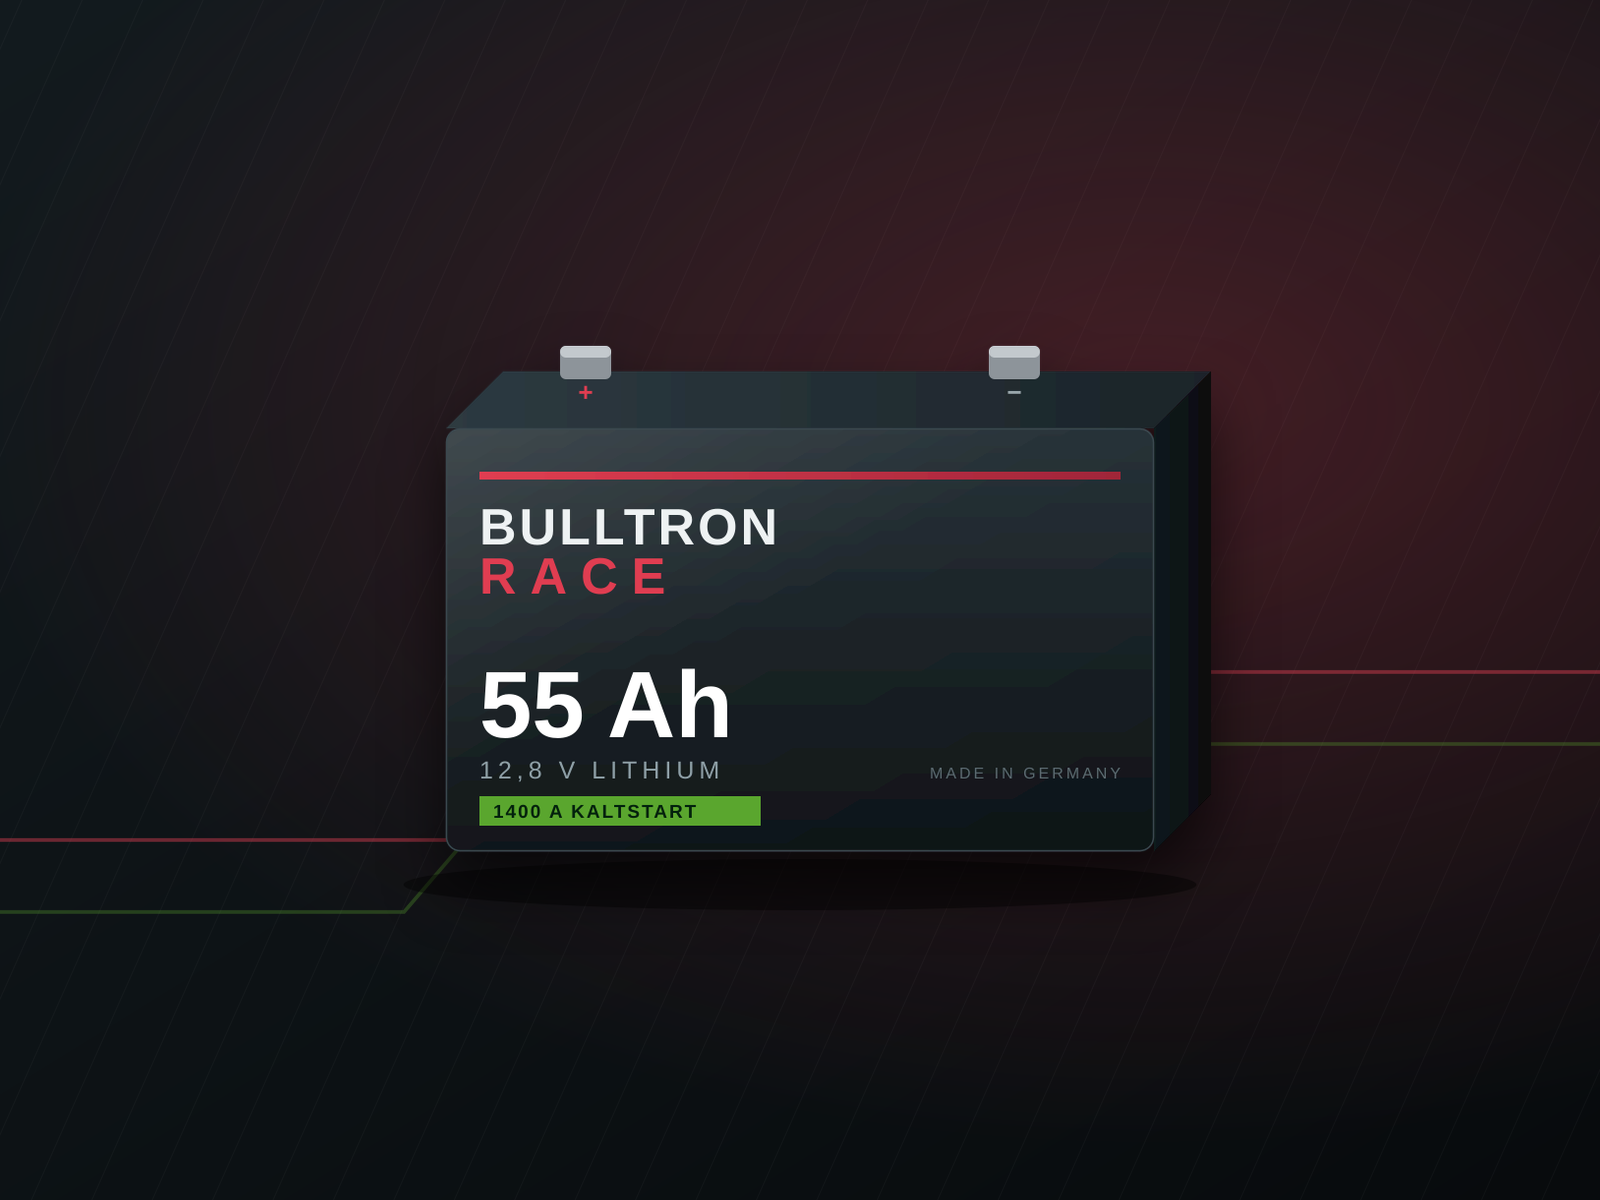
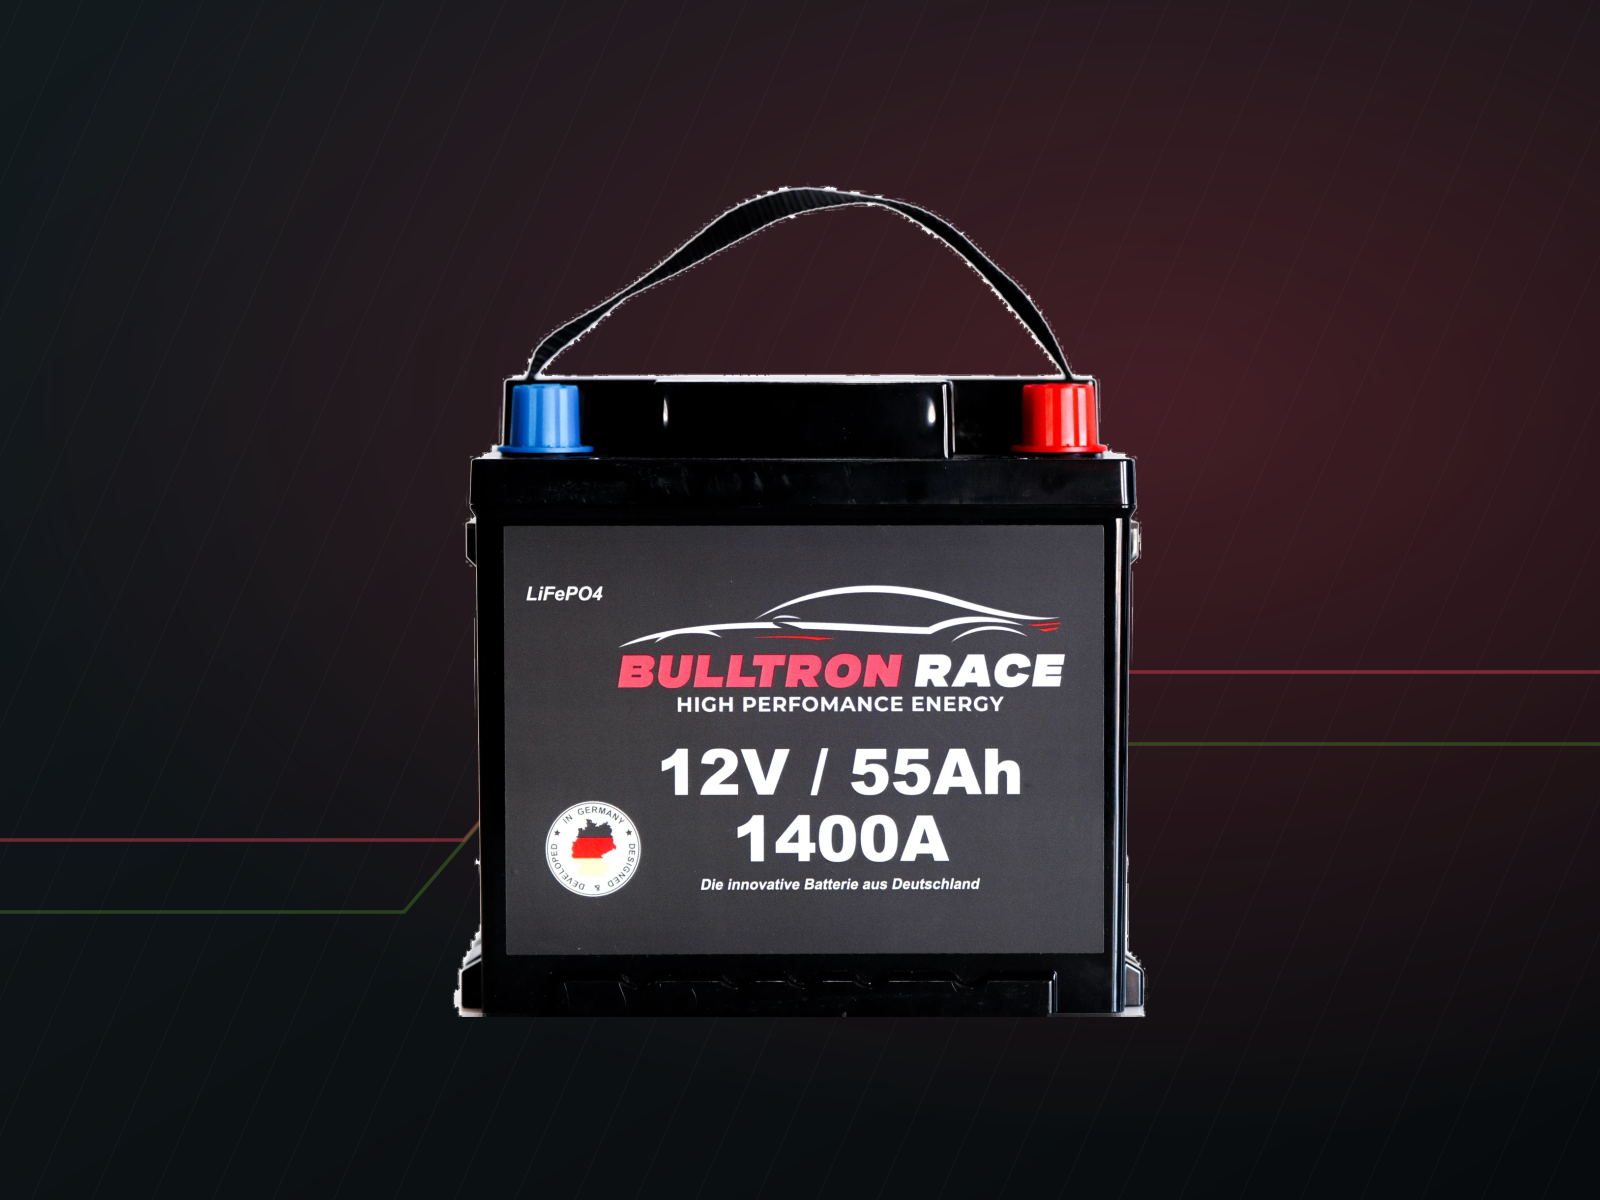
Echte Produktfotos fuer acht der neun Batterien
Die von Bulltron gelieferten Fotos ersetzen die erzeugten Platzhalter. Der
weisse Studiohintergrund ist freigestellt, damit die Batterien auf den
dunklen Kacheln stehen und nicht in einem weissen Kasten.

Zuordnung: Bei 4, 6 und 12 Ah steht die Kapazitaet auf dem Etikett. Die
L-Gehaeuse tragen alle dieselbe Beschriftung, dort wurde ueber das gemessene
Seitenverhaeltnis des Gehaeuses zugeordnet (L1 207 mm, L2 244 mm, L3 279 mm
Laenge bei gleicher Hoehe). Massstab waren die beiden 55-Ah-Fotos, weil es
davon genau zwei gibt; die drei 27-Ah-Fotos treffen damit auf unter zwei
Prozent genau. Fuer die 27 Ah im Metall-Gehaeuse liegt kein Foto vor, sie
behaelt ihr Platzhalterbild.

Dazu:
- Produktkacheln und Galerie passen jetzt jedes Seitenverhaeltnis ein. Die
  quadratischen Fotos liefen vorher 68 px unten aus der Kachel heraus
  (nachgemessen); das Bild liegt nun absolut in der Kachel.
- Die Lieferzeit "2-4 Werktage" ist raus. Sie stammte aus einem Vorgabewert
  am Feld, nicht von Bulltron, stand als Zusage auf jeder Produktseite und
  widersprach dem Status "Lieferzeit auf Anfrage" aller Produkte. Auch die
  Bestellbestaetigung nennt keine Lieferfrist mehr.
- src/scripts/produktfotos.ts weist die Fotos auf einer laufenden Instanz zu,
  src/scripts/lieferzeit-leeren.ts raeumt die Altwerte auf. Beide mehrfach
  ausfuehrbar und ohne erneuten Seed.

Claude-Session: https://claude.ai/code/session_01TmTbd2pJ9jbDW4w3PFvfLW

Changed region(s): [[0.2812, 0.1542, 0.7812, 0.8633]]

diff --git a/src/scripts/produktfotos.ts b/src/scripts/produktfotos.ts
@@ -1,0 +1,110 @@
+/**
+ * Weist den Produkten die echten Fotos zu — auf einer bereits laufenden
+ * Instanz, ohne den Seed erneut auszuführen.
+ *
+ * Hintergrund: Der Seed legt Produkte, Kategorien, Seiten und Medien neu an und
+ * löscht vorher alles. Auf einer Instanz mit gepflegten Inhalten darf er nicht
+ * noch einmal laufen. Dieses Skript lädt nur die Bilder hoch und hängt sie an
+ * die passenden Artikelnummern.
+ *
+ * Im Container ausführen:
+ *   node_modules/.bin/payload run src/scripts/produktfotos.ts
+ *
+ * Mehrfach ausführbar. Ein Produkt, dessen Bild jemand im Backend von Hand
+ * gesetzt hat, wird nicht angefasst — erkennbar daran, dass sein Dateiname
+ * nicht in der Liste unten steht. So überschreibt ein zweiter Lauf keine
+ * redaktionelle Arbeit.
+ */
+import path from 'path'
+import { fileURLToPath } from 'url'
+import fs from 'fs'
+import { getPayload } from 'payload'
+import config from '../payload.config'
+
+const assets = path.join(path.dirname(fileURLToPath(import.meta.url)), '..', 'seed', 'assets')
+
+/**
+ * Artikelnummer → Fotodatei.
+ *
+ * Die Zuordnung der Kunststoff-Gehäuse steht auf dem Etikett (4 Ah/500 A,
+ * 6 Ah/650 A, 12 Ah/1000 A). Bei den L-Gehäusen tragen alle Fotos dieselbe
+ * Beschriftung, dort wurde über das gemessene Seitenverhältnis des Gehäuses
+ * zugeordnet: L1 = 207 mm, L2 = 244 mm, L3 = 279 mm Länge bei gleicher Höhe.
+ * Die beiden 55-Ah-Fotos dienten als Maßstab, weil es davon genau zwei gibt;
+ * die drei 27-Ah-Fotos treffen damit auf unter zwei Prozent genau.
+ *
+ * Für die 27 Ah im Metall-Gehäuse (LI27B700-12-RM) liegt kein Foto vor — sie
+ * behält ihr Platzhalterbild.
+ */
+const fotos: Record<string, { datei: string; alt: string }> = {
+  'LI4B500-12-R1': { datei: 'race-4ah.webp', alt: 'Bulltron Race 4 Ah, 12,8 V LiFePO4 Starterbatterie im Kunststoff-Gehäuse' },
+  'LI6B650-12-R1': { datei: 'race-6ah.webp', alt: 'Bulltron Race 6 Ah, 12,8 V LiFePO4 Starterbatterie im Kunststoff-Gehäuse' },
+  'LI12B1000-12-R': { datei: 'race-12ah.webp', alt: 'Bulltron Race 12 Ah, 12,8 V LiFePO4 Starterbatterie im Kunststoff-Gehäuse' },
+  'LI27B700-12-RL1': { datei: 'race-27ah-l1.webp', alt: 'Bulltron Race 27 Ah, 12,8 V LiFePO4 Starterbatterie im L1-Gehäuse' },
+  'LI27B700-12-RL2': { datei: 'race-27ah-l2.webp', alt: 'Bulltron Race 27 Ah, 12,8 V LiFePO4 Starterbatterie im L2-Gehäuse' },
+  'LI27B700-12-RL3': { datei: 'race-27ah-l3.webp', alt: 'Bulltron Race 27 Ah, 12,8 V LiFePO4 Starterbatterie im L3-Gehäuse' },
+  'LI55B1400-12-RL1': { datei: 'race-55ah-l1.webp', alt: 'Bulltron Race 55 Ah, 12,8 V LiFePO4 Starterbatterie im L1-Gehäuse' },
+  'LI55B1400-12-RL2': { datei: 'race-55ah-l2.webp', alt: 'Bulltron Race 55 Ah, 12,8 V LiFePO4 Starterbatterie im L2-Gehäuse' },
+}
+
+/** Erzeugte Platzhalter, die ersetzt werden dürfen. */
+const platzhalter = /^batterie-/
+
+const payload = await getPayload({ config })
+
+let gesetzt = 0
+let uebersprungen = 0
+
+for (const [sku, { datei, alt }] of Object.entries(fotos)) {
+  const dateipfad = path.join(assets, datei)
+  if (!fs.existsSync(dateipfad)) {
+    payload.logger.error(`Datei fehlt: ${datei}`)
+    continue
+  }
+
+  const treffer = await payload.find({
+    collection: 'products',
+    where: { sku: { equals: sku } },
+    limit: 1,
+    depth: 1,
+    overrideAccess: true,
+  })
+  const produkt = treffer.docs[0] as Record<string, any> | undefined
+  if (!produkt) {
+    payload.logger.warn(`Kein Produkt mit Artikelnummer ${sku}`)
+    continue
+  }
+
+  const bisher = produkt.mainImage
+  const bisherigerName = bisher && typeof bisher === 'object' ? String(bisher.filename ?? '') : ''
+
+  if (bisherigerName === datei) {
+    uebersprungen++
+    continue
+  }
+  if (bisherigerName && !platzhalter.test(bisherigerName)) {
+    payload.logger.info(`${produkt.title}: eigenes Bild „${bisherigerName}" bleibt unangetastet`)
+    uebersprungen++
+    continue
+  }
+
+  const medium = await payload.create({
+    collection: 'media',
+    overrideAccess: true,
+    data: { alt },
+    filePath: dateipfad,
+  })
+
+  await payload.update({
+    collection: 'products',
+    id: produkt.id,
+    overrideAccess: true,
+    data: { mainImage: medium.id },
+  })
+
+  payload.logger.info(`${produkt.title}: ${datei} zugewiesen`)
+  gesetzt++
+}
+
+payload.logger.info(`Fertig — ${gesetzt} Fotos gesetzt, ${uebersprungen} unverändert.`)
+process.exit(0)

diff --git a/src/seed/products.ts b/src/seed/products.ts
@@ -75,7 +75,7 @@ export const seedProducts: SeedProduct[] = [
     price: 199,
     sku: 'LI4B500-12-R1',
     ean: '4262358250810',
-    image: 'batterie-4ah.png',
+    image: 'race-4ah.webp',
     badge: 'Leichtgewicht',
     shortDescription:
       'Die kleinste Batterie der Baureihe: 500 A Kaltstartstrom bei 500 Gramm, im Kunststoff-Gehäuse.',
@@ -105,7 +105,7 @@ export const seedProducts: SeedProduct[] = [
     price: 249,
     sku: 'LI6B650-12-R1',
     ean: '4262358250834',
-    image: 'batterie-6ah.png',
+    image: 'race-6ah.webp',
     shortDescription:
       'Mehr Kapazität als die 4 Ah bei 700 Gramm Gewicht. 650 A Kaltstartstrom im Kunststoff-Gehäuse.',
     keyData: { voltage: '12,8 V', capacity: '6 Ah', current: '650 A', weight: '0,7 kg' },
@@ -134,7 +134,7 @@ export const seedProducts: SeedProduct[] = [
     price: 399,
     sku: 'LI12B1000-12-R',
     ean: '4262358250858',
-    image: 'batterie-12ah.png',
+    image: 'race-12ah.webp',
     featured: true,
     shortDescription:
       '1000 A Kaltstartstrom bei 1,3 Kilogramm — die stärkste Batterie im Kunststoff-Gehäuse.',
@@ -195,7 +195,7 @@ export const seedProducts: SeedProduct[] = [
     price: 399,
     sku: 'LI27B700-12-RL1',
     ean: '4262358250759',
-    image: 'batterie-27ah-lifepo.png',
+    image: 'race-27ah-l1.webp',
     shortDescription:
       '27 Ah mit 700 A Kaltstartstrom im genormten L1-Gehäuse — passt in das Batteriefach vieler Fahrzeuge ohne Umbau.',
     keyData: { voltage: '12,8 V', capacity: '27 Ah', current: '700 A', weight: '3,5 kg' },
@@ -224,7 +224,7 @@ export const seedProducts: SeedProduct[] = [
     price: 399,
     sku: 'LI27B700-12-RL2',
     ean: '4262358250766',
-    image: 'batterie-27ah-lifepo.png',
+    image: 'race-27ah-l2.webp',
     shortDescription:
       '27 Ah mit 700 A Kaltstartstrom im genormten L2-Gehäuse, 244 mm lang.',
     keyData: { voltage: '12,8 V', capacity: '27 Ah', current: '700 A', weight: '3,5 kg' },
@@ -253,7 +253,7 @@ export const seedProducts: SeedProduct[] = [
     price: 399,
     sku: 'LI27B700-12-RL3',
     ean: '4262358250773',
-    image: 'batterie-27ah-lifepo.png',
+    image: 'race-27ah-l3.webp',
     shortDescription:
       '27 Ah mit 700 A Kaltstartstrom im genormten L3-Gehäuse, 279 mm lang.',
     keyData: { voltage: '12,8 V', capacity: '27 Ah', current: '700 A', weight: '3,5 kg' },
@@ -282,7 +282,7 @@ export const seedProducts: SeedProduct[] = [
     price: 599,
     sku: 'LI55B1400-12-RL1',
     ean: '4262358250742',
-    image: 'batterie-55ah.png',
+    image: 'race-55ah-l1.webp',
     featured: true,
     shortDescription:
       'Die stärkste Batterie der Baureihe: 1400 A Kaltstartstrom und 55 Ah Kapazität im L1-Gehäuse.',
@@ -312,7 +312,7 @@ export const seedProducts: SeedProduct[] = [
     price: 599,
     sku: 'LI55B1400-12-RL2',
     ean: '4262358250735',
-    image: 'batterie-55ah-lifepo.png',
+    image: 'race-55ah-l2.webp',
     shortDescription:
       '55 Ah mit 1400 A Kaltstartstrom im längeren L2-Gehäuse, 244 mm.',
     keyData: { voltage: '12,8 V', capacity: '55 Ah', current: '1400 A', weight: '6,5 kg' },

diff --git a/src/app/(frontend)/globals.css b/src/app/(frontend)/globals.css
@@ -612,16 +612,24 @@ p:last-child { margin-bottom: 0; }
   aspect-ratio: 4 / 3;
   display: grid;
   place-items: center;
-  padding: 1.5rem;
+  padding: 0;
   background:
     radial-gradient(circle at 50% 55%, rgba(224, 62, 81, 0.16), transparent 68%),
     linear-gradient(170deg, var(--surface-2), var(--surface));
   border-bottom: 1px solid var(--line);
   overflow: hidden;
 }
+/* Die Produktfotos sind quadratisch, die Kachel ist 4:3. Solange das Bild im
+   Fluss steht, greift eine Hoehenbegrenzung in Prozent nicht zuverlaessig —
+   nachgemessen lief das Bild 68 px unten aus der Kachel heraus. Deshalb liegt
+   es absolut in der Kachel, der Innenabstand sitzt am Bild selbst, und
+   object-fit passt jedes Seitenverhaeltnis ein. */
 .product-card__media img {
-  max-height: 100%;
-  width: auto;
+  position: absolute;
+  inset: 0;
+  width: 100%;
+  height: 100%;
+  padding: 1.5rem;
   object-fit: contain;
   transition: transform 0.45s var(--ease);
 }
@@ -873,14 +881,14 @@ p:last-child { margin-bottom: 0; }
   aspect-ratio: 1 / 1;
   display: grid;
   place-items: center;
-  padding: clamp(1.5rem, 4vw, 3rem);
+  padding: 0;
   background:
     radial-gradient(circle at 50% 50%, rgba(224, 62, 81, 0.16), transparent 68%),
     linear-gradient(165deg, var(--surface-2), var(--surface));
   border: 1px solid var(--line);
   overflow: hidden;
 }
-.gallery__main img { max-height: 100%; width: auto; object-fit: contain; }
+.gallery__main img { position: absolute; inset: 0; width: 100%; height: 100%; padding: clamp(1.5rem, 4vw, 3rem); object-fit: contain; }
 .gallery__thumbs { display: flex; gap: 0.75rem; margin-top: 0.75rem; flex-wrap: wrap; }
 .gallery__thumb {
   width: 84px; height: 84px;
@@ -891,7 +899,7 @@ p:last-child { margin-bottom: 0; }
   transition: border-color 0.2s;
 }
 .gallery__thumb[aria-current='true'], .gallery__thumb:hover { border-color: var(--primary); }
-.gallery__thumb img { max-height: 100%; width: auto; object-fit: contain; }
+.gallery__thumb img { width: 100%; height: 100%; object-fit: contain; }
 
 .pdp__title { font-size: clamp(2.1rem, 4.2vw, 3.1rem); margin-bottom: 0.4rem; }
 .pdp__sub {

diff --git a/src/scripts/lieferzeit-leeren.ts b/src/scripts/lieferzeit-leeren.ts
@@ -1,0 +1,40 @@
+/**
+ * Löscht die Lieferzeit „2–4 Werktage" aus den Produkten.
+ *
+ * Diese Angabe stammte aus einem Vorgabewert am Feld und nicht von Bulltron.
+ * Sie steht auf der Produktseite und ist damit eine Zusage an den Kunden,
+ * während alle Produkte zugleich auf „Lieferzeit auf Anfrage" stehen. Der
+ * Vorgabewert ist entfernt; dieses Skript räumt die Werte auf, die vorher
+ * schon in der Datenbank gelandet sind.
+ *
+ * Im Container ausführen:
+ *   node_modules/.bin/payload run src/scripts/lieferzeit-leeren.ts
+ *
+ * Angepasste Lieferzeiten bleiben stehen: geleert wird nur, was exakt dem
+ * alten Vorgabewert entspricht. Mehrfach ausführbar.
+ */
+import { getPayload } from 'payload'
+import config from '../payload.config'
+
+const VORGABE = ['2–4 Werktage', '2-4 Werktage']
+
+const payload = await getPayload({ config })
+
+const produkte = await payload.find({ collection: 'products', limit: 500, depth: 0, overrideAccess: true })
+
+let geleert = 0
+for (const produkt of produkte.docs as Array<Record<string, any>>) {
+  const wert = String(produkt.deliveryTime ?? '').trim()
+  if (!VORGABE.includes(wert)) continue
+  await payload.update({
+    collection: 'products',
+    id: produkt.id,
+    overrideAccess: true,
+    data: { deliveryTime: null } as never,
+  })
+  payload.logger.info(`${produkt.title}: Lieferzeit „${wert}" entfernt`)
+  geleert++
+}
+
+payload.logger.info(`Fertig — ${geleert} von ${produkte.docs.length} Produkten bereinigt.`)
+process.exit(0)

diff --git a/src/collections/Products.ts b/src/collections/Products.ts
@@ -110,7 +110,7 @@ export const Products: CollectionConfig = {
                   ],
                   admin: { width: '50%' },
                 },
-                { name: 'deliveryTime', type: 'text', label: 'Lieferzeit', defaultValue: '2–4 Werktage', admin: { width: '50%' } },
+                { name: 'deliveryTime', type: 'text', label: 'Lieferzeit', admin: { width: '50%', description: 'Erscheint auf der Produktseite und ist damit eine Zusage an den Kunden. Leer lassen, solange keine belastbare Lieferzeit feststeht — dann steht dort nichts.' } },
               ],
             },
             {

diff --git a/src/app/(frontend)/bestellung/page.tsx b/src/app/(frontend)/bestellung/page.tsx
@@ -71,8 +71,8 @@ export default async function OrderConfirmationPage({
           ) : null}
 
           <div className="notice notice--info" style={{ marginTop: '2rem' }}>
-            Wir versenden aus Deutschland, in der Regel innerhalb von 2–4 Werktagen. Die Sendungsnummer bekommst du per
-            E-Mail, sobald das Paket unterwegs ist.
+            Wir versenden aus Deutschland. Die Sendungsnummer bekommst du per E-Mail, sobald das Paket unterwegs
+            ist.
           </div>
 
           <div className="btn-row" style={{ marginTop: '2rem', justifyContent: 'center' }}>

diff --git a/src/seed/index.ts b/src/seed/index.ts
@@ -466,7 +466,7 @@ export const seed = async () => {
       secondaryCtaUrl: 'tel:+4936134948420',
       backgroundImage: heroBild.id,
       backgroundFocus: 'center-right',
-      image: productImages['batterie-55ah.png'],
+      image: productImages['race-55ah-l1.webp'],
       stats: [
         { value: '10.000+', label: 'zufriedene Kunden' },
         { value: '5 Jahre', label: 'Herstellergarantie' },
